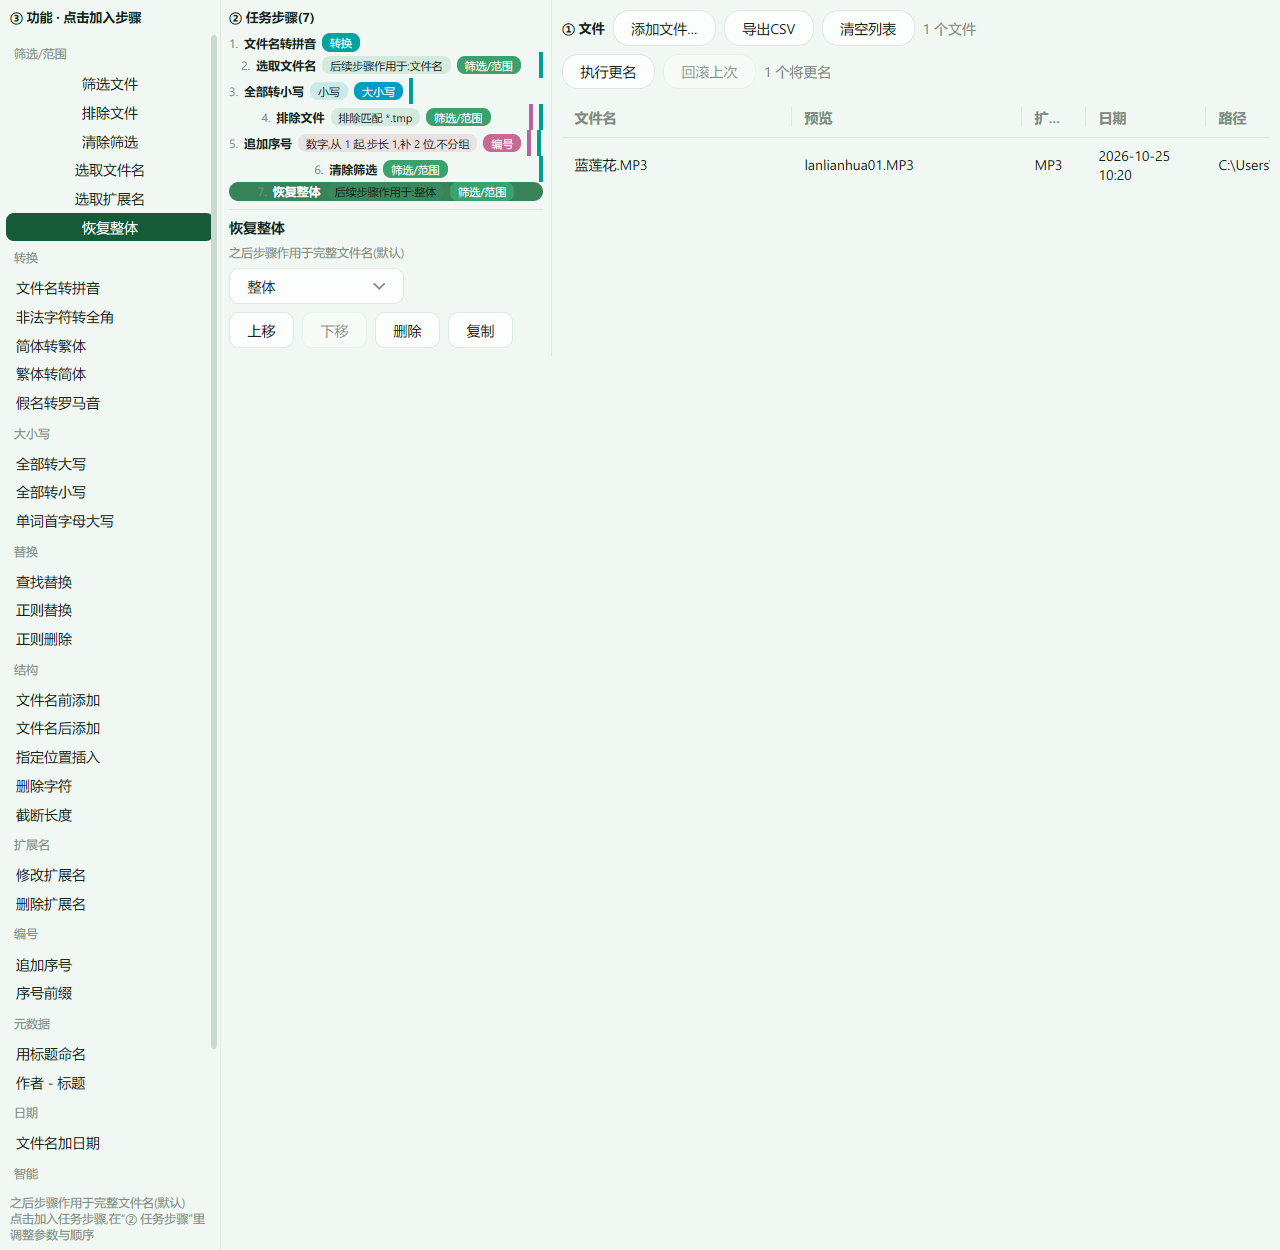
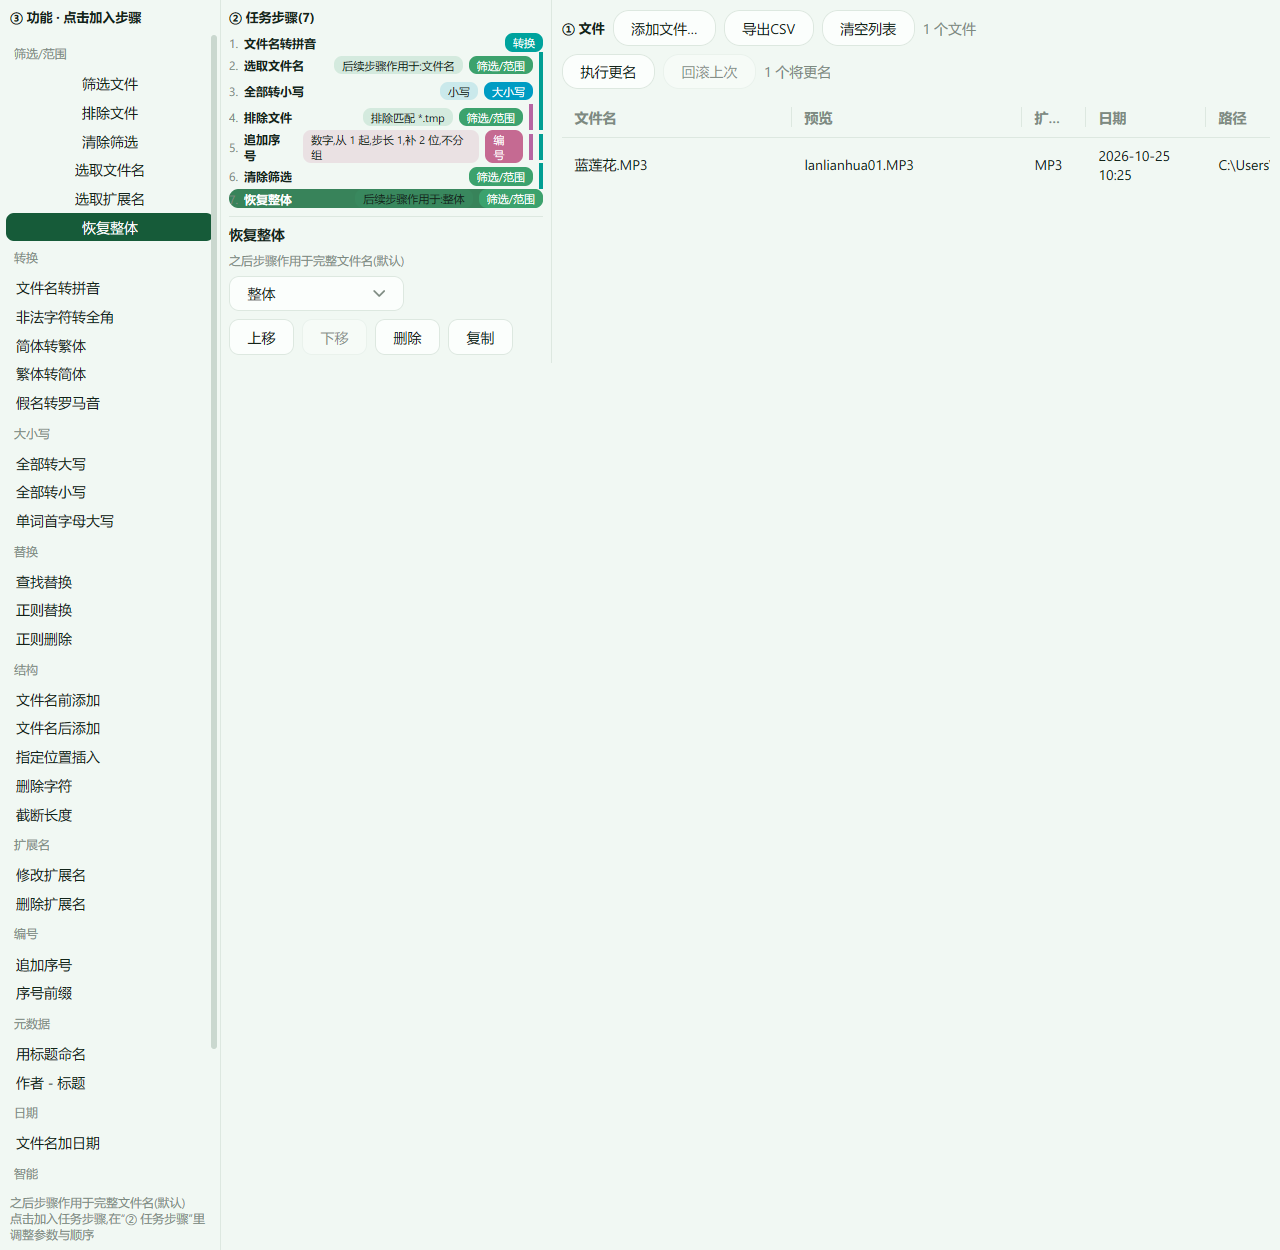
UX: 步骤行胶囊右对齐;范围竖线固定槽位、由右向左增长(先开者恒居右,不位移)

Changed region(s): [[0.1562, 0.0, 0.4375, 0.2808], [0.3125, 0.2496, 0.4062, 0.2808], [0.25, 0.2496, 0.2812, 0.2808]]

diff --git a/gui/main.go b/gui/main.go
@@ -164,31 +164,46 @@ func (a *app) catalogView(c *ui.Context) {
 // second bar from 9 on, until a clear step ends them.
 func (a *app) stepRangeBars(dt *derivedTheme) [][]ui.Color {
 	out := make([][]ui.Color, len(a.steps))
-	filterOn := false
-	scopeOn := false
+	// active holds open ranges in the order they opened; the earliest keeps
+	// the rightmost slot, so an existing bar never shifts when a new range
+	// opens (bars grow right-to-left)
+	var active []ui.Color
+	open := func(c ui.Color) {
+		for _, v := range active {
+			if v == c {
+				return
+			}
+		}
+		active = append(active, c)
+	}
+	close := func(c ui.Color) {
+		for i, v := range active {
+			if v == c {
+				active = append(active[:i], active[i+1:]...)
+				return
+			}
+		}
+	}
 	for i := range a.steps {
 		s := &a.steps[i]
 		key, _ := kindByLabel[s.kind]
 		switch key {
 		case "filter":
-			filterOn = true
+			open(dt.rangeFilter)
 		case "unfilter":
-			filterOn = false
+			close(dt.rangeFilter)
 		case "scope":
 			if s.scopeSel == "整体" {
-				scopeOn = false
+				close(dt.rangeScope)
 			} else {
-				scopeOn = true
+				open(dt.rangeScope)
 			}
 		}
-		var bars []ui.Color
-		if filterOn {
-			bars = append(bars, dt.rangeFilter)
+		row := make([]ui.Color, len(active))
+		for j, c := range active { // reverse: newest left, oldest right
+			row[len(active)-1-j] = c
 		}
-		if scopeOn {
-			bars = append(bars, dt.rangeScope)
-		}
-		out[i] = bars
+		out[i] = row
 	}
 	return out
 }
@@ -214,20 +229,15 @@ func (a *app) stepsView(c *ui.Context) {
 				// 行结构:编号 · 操作名 · 参数值胶囊 · 类别胶囊 · 范围色条。
 				// 扫颜色即可读流程,不用逐个读编号
 				ui.Row(c).Gap(6).Children(func() {
-					if s.opFlow {
-						ui.Spacer(c) // 流程控制居中,处理步骤左对齐
-					}
 					ui.Text(c, fmt.Sprintf("%d.", i+1)).FontSize(12).TextColor(t.TextMuted)
 					ui.Text(c, s.opLabel).FontSize(12).Bold()
+					ui.Spacer(c) // 胶囊与色条右对齐;流程控制的文字仍居中
 					if v := s.summary(); v != "" && v != s.opLabel {
 						ui.Text(c, v).FontSize(11).Padding(2, 8).Radius(8).
 							Background(cat.Alpha(0.16)).TextColor(t.Text)
 					}
 					ui.Text(c, s.opGroup).FontSize(11).Padding(2, 8).Radius(8).
 						Background(cat).TextColor(ui.RGB(255, 255, 255))
-					if s.opFlow {
-						ui.Spacer(c)
-					}
 					for _, bar := range bars[i] {
 						ui.Box(c).Size(4, 26).Background(bar)
 					}

diff --git a/gui/main_test.go b/gui/main_test.go
@@ -370,10 +370,14 @@ func TestStepRangeBars(t *testing.T) {
 			t.Fatalf("step %d: %v", i+1, bars[i])
 		}
 	}
-	// 9..11: two bars (scope + filter)
+	// 9..11: two bars (scope + filter); scope opened first so it keeps the
+	// RIGHTMOST slot — bars grow right-to-left and never shift
 	for i := 8; i <= 10; i++ {
 		if len(bars[i]) != 2 {
 			t.Fatalf("step %d should have 2 bars: %v", i+1, bars[i])
+		}
+		if bars[i][len(bars[i])-1] != dt.rangeScope || bars[i][0] != dt.rangeFilter {
+			t.Fatalf("step %d slot order wrong (oldest must be rightmost): %v", i+1, bars[i])
 		}
 	}
 	// 12 清除筛选: scope bar remains; 13 恢复整体: none
